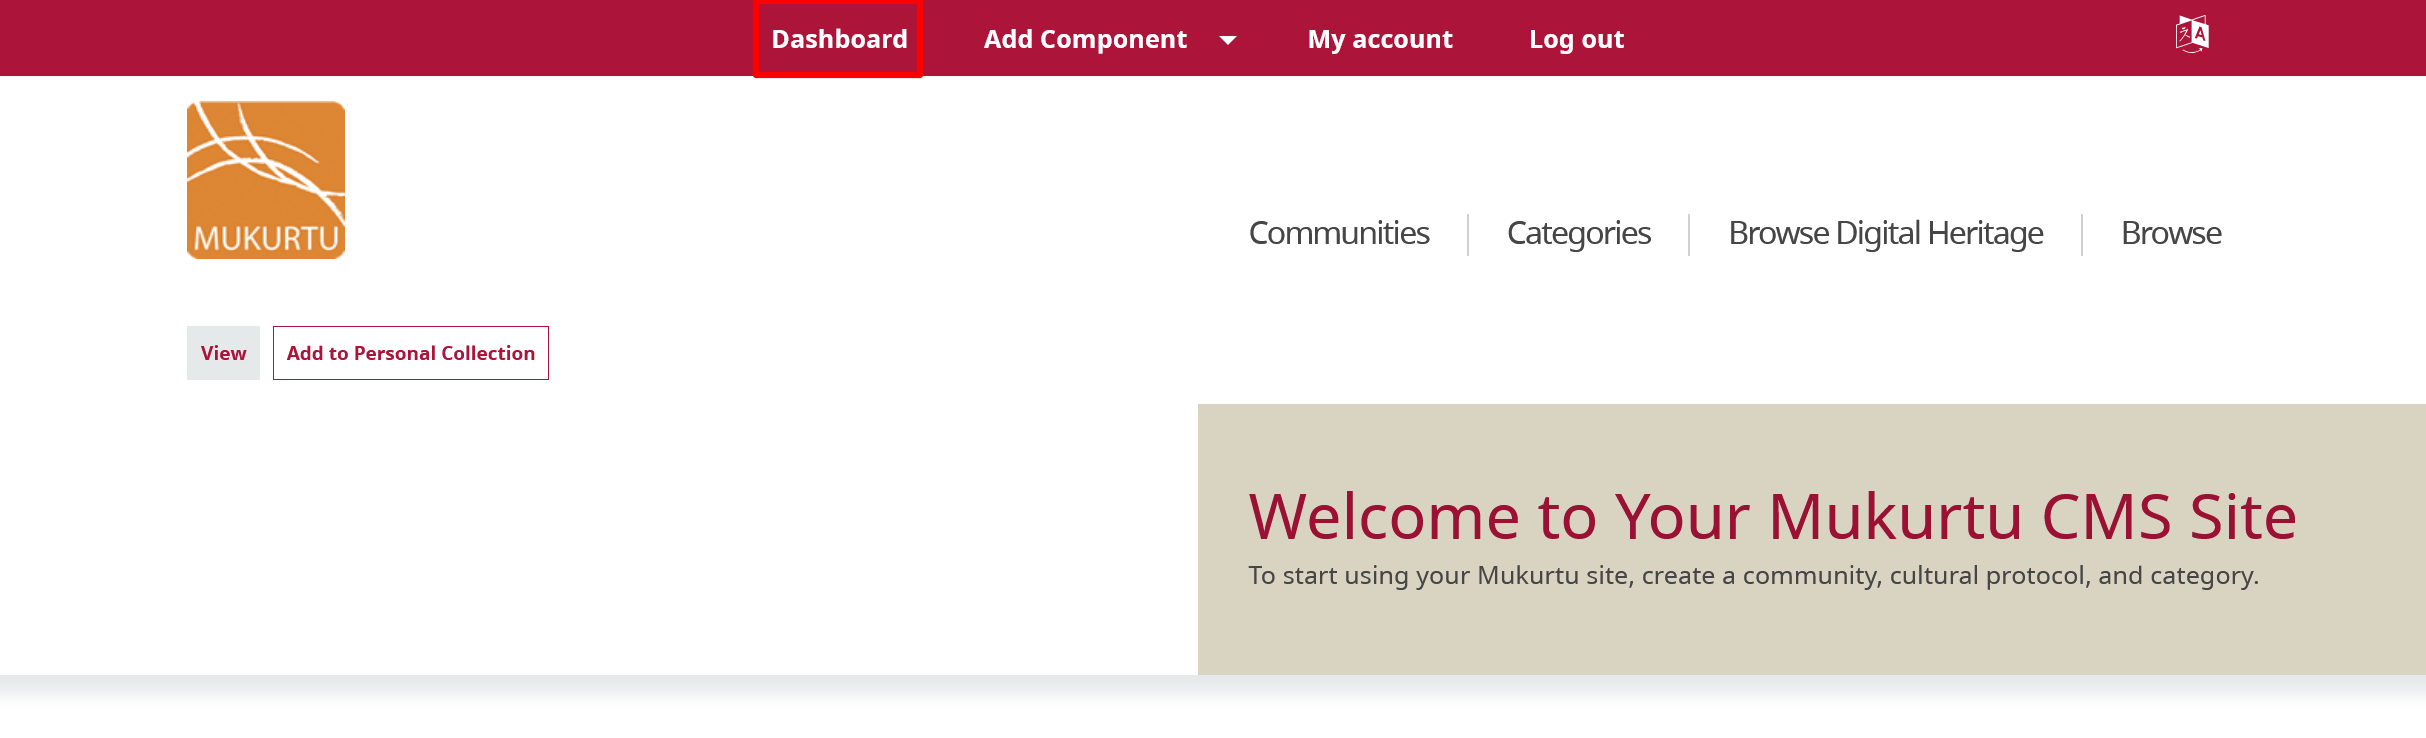
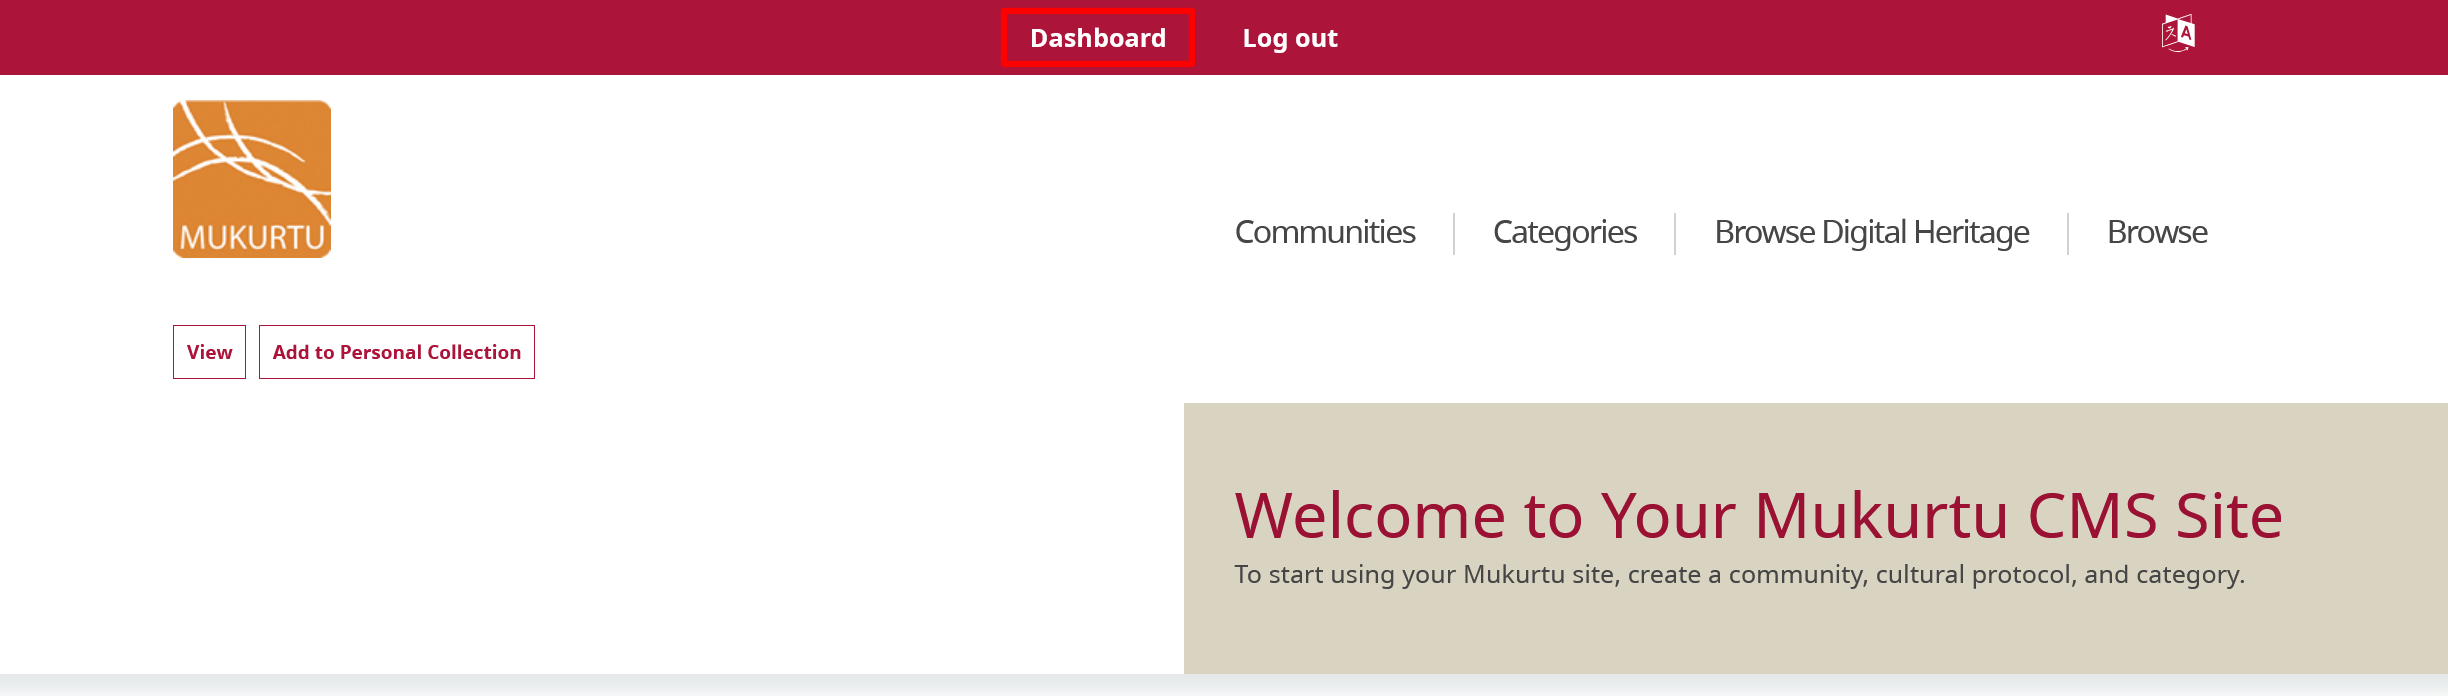
Updated screenshots

diff --git a/docs/multilingual/UserLanguage.md b/docs/multilingual/UserLanguage.md
@@ -18,18 +18,10 @@ If your site has more than one language enabled, authenticated users may choose 
 ## Set your account language
 
 1. Log in to your account. For more information about how to log in to your user account, refer to our [Log In](../users/log-in.md) article.
-2. Select **My Account** from the top menu bar. 
-
-    ![Screenshot of the My Account link in the top menu bar](../_embeds/user1.png)
-
-    You can also access your account settings from your Dashboard by selecting the **Dashboard** link, then selecting **My Account**.
+2. From the **Dashboard** select **Manage my account**.
 
     ![Screenshot of the Dashboard link in the top menu bar](../_embeds/user2.png)
-    ![Screenshot of the My Account link in the Dashboard](../_embeds/user4.png)
-
-3. Select the "Edit" button.
-
-    ![Screenshot of the user account page with the Edit button highlighted](../_embeds/user3.png)
+    ![Screenshot of the Manage my Account link in the Dashboard](../_embeds/user4.png)
 
 4. Navigate to the **Language settings** section of the user account page. In the *Site language* and *Administration pages language* fields, select your preferred language from the dropdown menu. 
 
